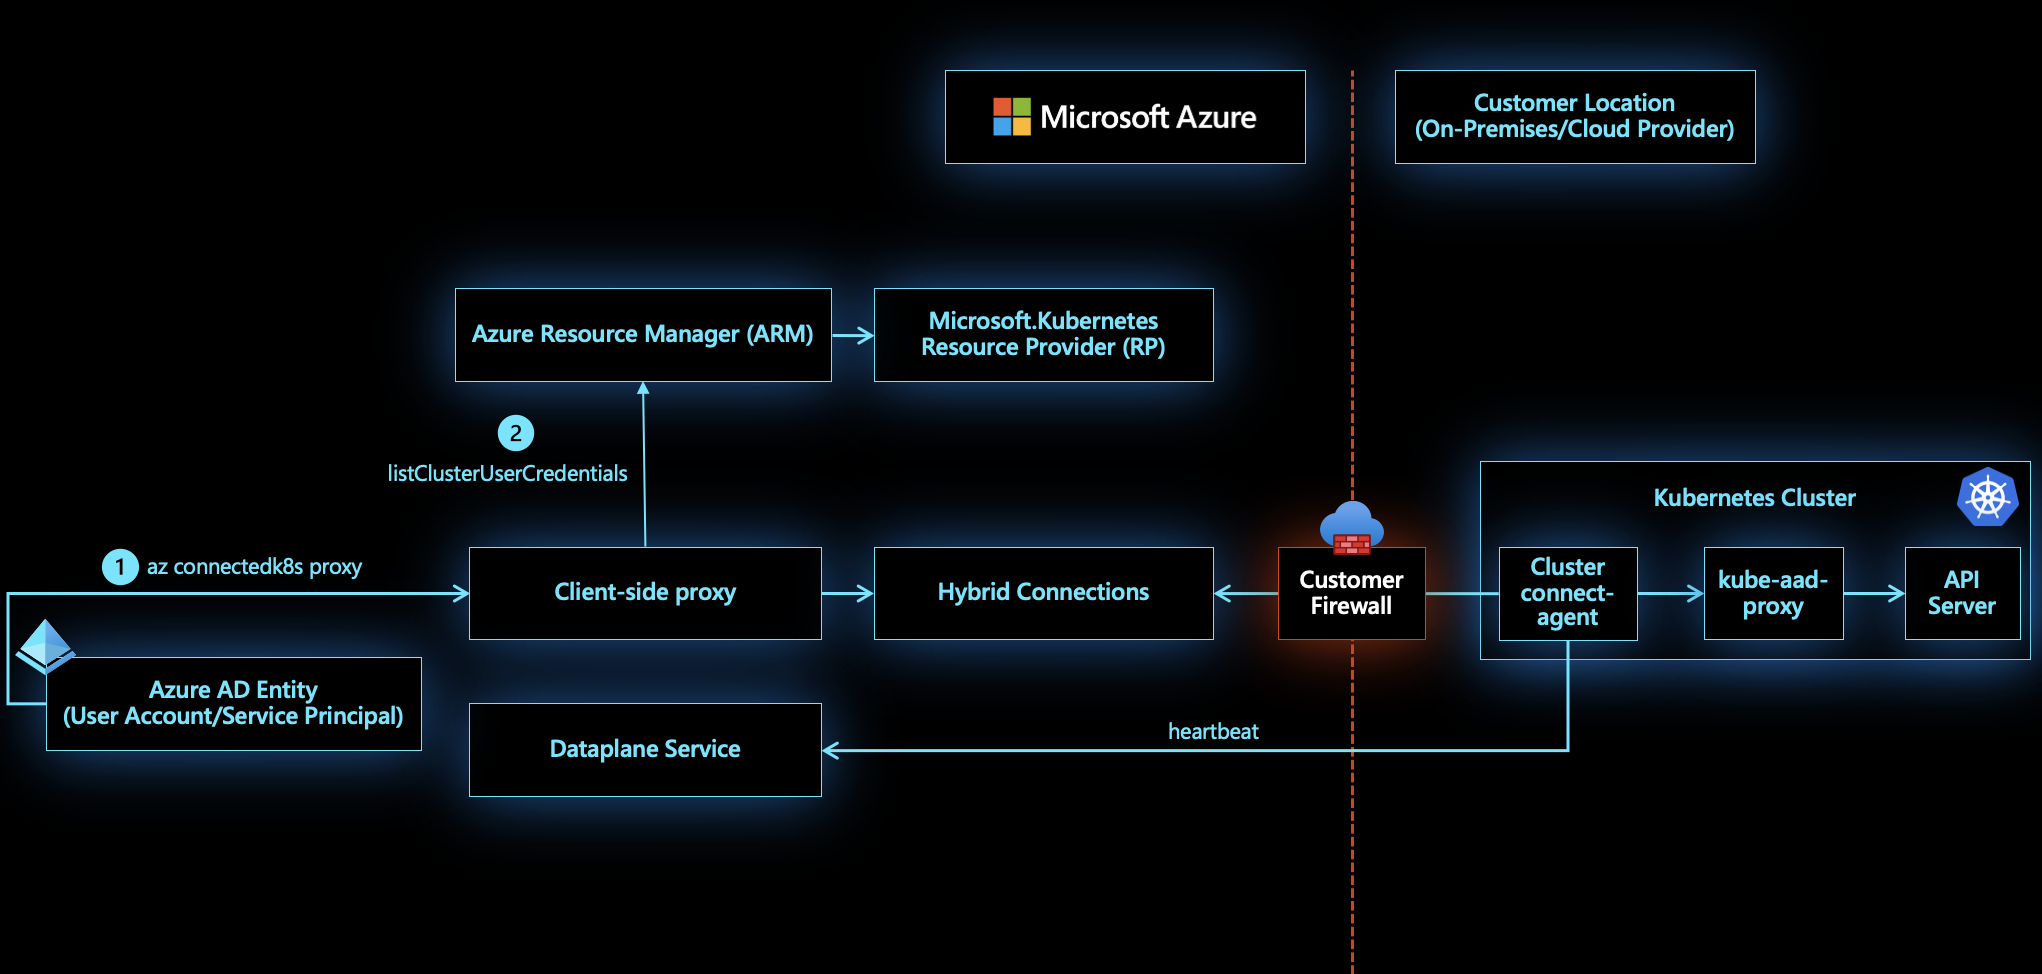
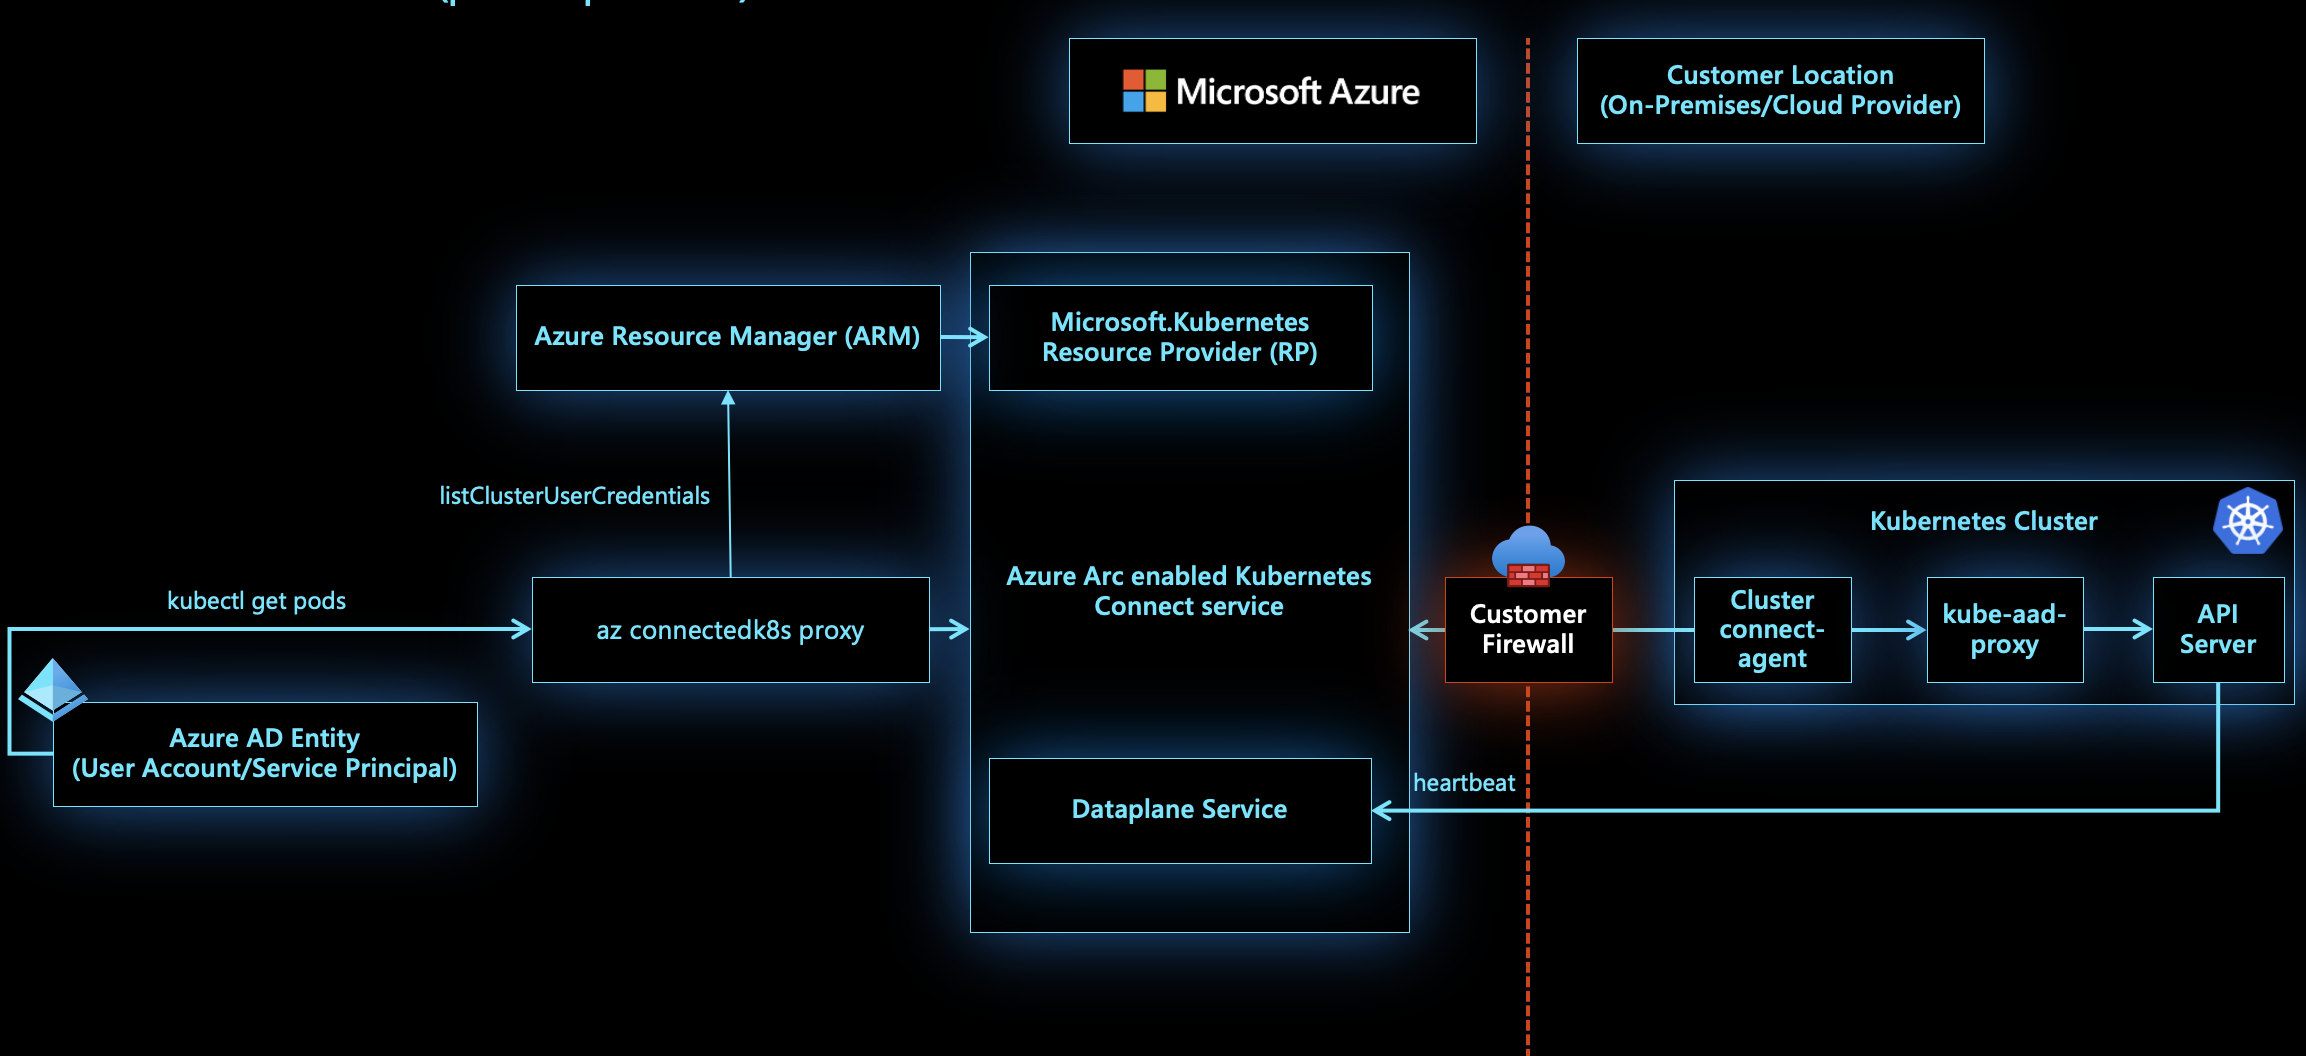
address comments on arc platform docs

Changed region(s): [[0.0, 0.0, 1.0, 0.924], [0.6787, 0.0, 0.8639, 0.2156]]

diff --git a/articles/azure-arc/kubernetes/conceptual-cluster-connect.md b/articles/azure-arc/kubernetes/conceptual-cluster-connect.md
@@ -11,9 +11,9 @@ description: "This article provides a conceptual overview of Cluster Connect cap
 
 # Cluster connect on Azure Arc enabled Kubernetes
 
-The Azure Arc enabled Kubernetes *cluster connect* feature provides connectivity to the `apiserver` of the cluster without requiring any inbound port to be enabled on the firewall. A Hybrid Connections resource on the Azure service side is mapped to every Arc enabled Kubernetes cluster. A reverse proxy agent running on the cluster can securely start a session with the Hybrid Connection resource in an outbound manner. 
+The Azure Arc enabled Kubernetes *cluster connect* feature provides connectivity to the `apiserver` of the cluster without requiring any inbound port to be enabled on the firewall. A reverse proxy agent running on the cluster can securely start a session with the Azure Arc service in an outbound manner. 
 
-Cluster connect allows developers to access their clusters from anywhere for interactive development and debugging. You can even use hosted agents/runners of Azure Pipelines, GitHub Actions, or any other hosted CI/CD service to deploy applications to on-prem clusters, without requiring self-hosted agents.
+Cluster connect allows developers to access their clusters from anywhere for interactive development and debugging. It also lets cluster users and administrators access or manage their clusters from anywhere. You can even use hosted agents/runners of Azure Pipelines, GitHub Actions, or any other hosted CI/CD service to deploy applications to on-prem clusters, without requiring self-hosted agents.
 
 [!INCLUDE [preview features note](./includes/preview/preview-callout.md)]
 
@@ -21,17 +21,17 @@ Cluster connect allows developers to access their clusters from anywhere for int
 
 [ ![Cluster connect architecture](./media/conceptual-cluster-connect.png) ](./media/conceptual-cluster-connect.png#lightbox)
 
-For every Azure Arc enabled Kubernetes resource, a Hybrid Connections resource is provisioned in Microsoft tenant by Azure Arc services. On the cluster side, a reverse proxy agent called `clusterconnect-agent` makes outbound calls to the Hybrid Connections resource to establish the session.
+On the cluster side, a reverse proxy agent called `clusterconnect-agent` deployed as part of agent helm chart, makes outbound calls to Azure Arc service to establish the session.
 
 When the user calls `az connectedk8s proxy`:
-1. A client-side proxy binary is downloaded and spun up as a process on the client machine. 
-1. The client-side proxy fetches a `kubeconfig` file associated with the Azure Arc enabled Kubernetes cluster on which the `az connectedk8s proxy` is invoked.
-  * The client side proxy uses the caller's Azure access token and the Azure Resource Manager ID name. 
-1. The `kubeconfig` file, saved on the machine by client-side proxy, points the server URL to an endpoint on the client-side proxy process.
+1. Azure Arc proxy binary is downloaded and spun up as a process on the client machine. 
+1. Azure Arc proxy fetches a `kubeconfig` file associated with the Azure Arc enabled Kubernetes cluster on which the `az connectedk8s proxy` is invoked.
+  * Azure Arc proxy uses the caller's Azure access token and the Azure Resource Manager ID name. 
+1. The `kubeconfig` file, saved on the machine by Azure Arc proxy, points the server URL to an endpoint on the Azure Arc proxy process.
 
 When a user sends a request using this `kubeconfig` file:
-1. The client-side proxy maps the endpoint receiving the request to the appropriate Hybrid Connections resource. 
-1. The Hybrid Connections resource forwards the request to the `clusterconnect-agent` running on the cluster. 
+1. Azure Arc proxy maps the endpoint receiving the request to the Azure Arc service. 
+1. Azure Arc service then forwards the request to the `clusterconnect-agent` running on the cluster. 
 1. The `clusterconnect-agent` passes on the request to the `kube-aad-proxy` component, which performs AAD authentication on the calling entity. 
 1. After AAD authentication, `kube-aad-proxy` uses Kubernetes [user impersonation](https://kubernetes.io/docs/reference/access-authn-authz/authentication/#user-impersonation) feature to forward the request to the cluster's `apiserver`.
 

diff --git a/articles/azure-arc/kubernetes/azure-rbac.md b/articles/azure-arc/kubernetes/azure-rbac.md
@@ -11,13 +11,14 @@ description: "Use Azure RBAC for authorization checks on Azure Arc enabled Kuber
 
 # Azure RBAC for Azure Arc enabled Kubernetes clusters
 
-Kubernetes [ClusterRoleBinding and RoleBinding](https://kubernetes.io/docs/reference/access-authn-authz/rbac/#rolebinding-and-clusterrolebinding) objects type help to define authorization in Kubernetes natively. With Azure RBAC, you can use Azure Active Directory (AAD) and role assignments in Azure to control authorization checks on the cluster.
+Kubernetes [ClusterRoleBinding and RoleBinding](https://kubernetes.io/docs/reference/access-authn-authz/rbac/#rolebinding-and-clusterrolebinding) objects type help to define authorization in Kubernetes natively. With Azure RBAC, you can use Azure Active Directory (AAD) and role assignments in Azure to control authorization checks on the cluster. This implies you can now use Azure role assignments to granularly control who can read, write, delete your Kubernetes objects such as Deployment, Pod and Service
+
+A conceptual overview of this feature is available in [Azure RBAC - Azure Arc enabled Kubernetes article](conceptual-azure-rbac.md).
 
 [!INCLUDE [preview features note](./includes/preview/preview-callout.md)]
 
 ## Prerequisites
 
-- An understanding of the benefits and architecture of this feature. Read more in [Azure RBAC - Azure Arc enabled Kubernetes article](conceptual-azure-rbac.md).
 - [Install or upgrade Azure CLI](https://docs.microsoft.com/cli/azure/install-azure-cli) to version >= 2.16.0
 - Install the `connectedk8s` Azure CLI extension of version >= 1.1.0:
 
@@ -35,10 +36,8 @@ Kubernetes [ClusterRoleBinding and RoleBinding](https://kubernetes.io/docs/refer
     - If you haven't connected a cluster yet, use our [quickstart](quickstart-connect-cluster.md).
     - [Upgrade your agents](agent-upgrade.md#manually-upgrade-agents) to version >= 1.1.0.
 
-- Self-managed Kubernetes cluster where access to `apiserver` of the cluster is available.
-
 > [!NOTE]
-> This feature can't be set up for managed Kubernetes offerings of cloud providers like Elastic Kubernetes Service or Google Kubernetes Engine. For Azure Kubernetes Service (AKS) clusters, this [feature is available natively](../../aks/manage-azure-rbac.md) and doesn't require the AKS cluster to be connected to Azure Arc.
+> This feature can't be set up for managed Kubernetes offerings of cloud providers like Elastic Kubernetes Service or Google Kubernetes Engine where the user doesn't have access to `apiserver` of the cluster. For Azure Kubernetes Service (AKS) clusters, this [feature is available natively](../../aks/manage-azure-rbac.md) and doesn't require the AKS cluster to be connected to Azure Arc.
 
 ## Set up AAD applications
 

diff --git a/articles/azure-arc/kubernetes/conceptual-agent-architecture.md b/articles/azure-arc/kubernetes/conceptual-agent-architecture.md
@@ -44,7 +44,10 @@ Most on-prem datacenters enforce strict network rules that prevent inbound commu
         | `deployment.apps/cluster-metadata-operator` | Gathers cluster metadata, including cluster version, node count, and Azure Arc agent version. |
         | `deployment.apps/resource-sync-agent` | Syncs the above-mentioned cluster metadata to Azure. |
         | `deployment.apps/flux-logs-agent` | Collects logs from the flux operators deployed as a part of source control configuration. |
-    
+        | `deployment.apps/extension-manager` | Installs and manages lifecycle of extension helm charts |  
+        | `deployment.apps/clusterconnect-agent` | Reverse proxy agent that enables cluster connect feature to provide access to `apiserver` of cluster. This is an optional component deployed only if `cluster-connect` feature is enabled on the cluster   |
+        | `deployment.apps/guard` | Authentication and authorization webhook server used for AAD RBAC feature. This is an optional component deployed only if `azure-rbac` feature is enabled on the cluster   |
+
 1. Once all the Azure Arc enabled Kubernetes agent pods are in `Running` state, verify that your cluster connected to Azure Arc. You should see:
     * An Azure Arc enabled Kubernetes resource in [Azure Resource Manager](../../azure-resource-manager/management/overview.md). Azure tracks this resource as a projection of the customer-managed Kubernetes cluster, not the actual Kubernetes cluster itself.
     * Cluster metadata (like Kubernetes version, agent version, and number of nodes) appears on the Azure Arc enabled Kubernetes resource as metadata.

diff --git a/articles/azure-arc/kubernetes/extensions.md b/articles/azure-arc/kubernetes/extensions.md
@@ -16,11 +16,12 @@ The Kubernetes extensions feature enables the following on Azure Arc enabled Kub
 * Azure Resource Manager-based deployment of cluster extension.
 * Lifecycle management of extension Helm charts.
 
+A conceptual overview of this feature is available in [Cluster extensions - Azure Arc enabled Kubernetes article](conceptual-extensions.md).
+
 [!INCLUDE [preview features note](./includes/preview/preview-callout.md)]
 
 ## Prerequisites
 
-- An understanding of the benefits and architecture of this feature. Read more in [Cluster extensions - Azure Arc enabled Kubernetes article](conceptual-extensions.md).
 - An Azure account with an active subscription. [Create an account for free](https://azure.microsoft.com/free/?WT.mc_id=A261C142F).
 - [Install or upgrade Azure CLI](https://docs.microsoft.com/cli/azure/install-azure-cli) to version >= 2.16.0
 - An existing Azure Arc enabled Kubernetes connected cluster.

diff --git a/articles/azure-arc/kubernetes/custom-locations.md b/articles/azure-arc/kubernetes/custom-locations.md
@@ -15,11 +15,12 @@ As an Azure location extension, *Custom Locations* provides a way for tenant adm
 
 Similar to Azure locations, end users within the tenant with access to Custom Locations can deploy resources there using their company's private compute.
 
+A conceptual overview of this feature is available in [Custom locations - Azure Arc enabled Kubernetes article](conceptual-custom-locations.md).
+
 [!INCLUDE [preview features note](./includes/preview/preview-callout.md)]
 
 ## Prerequisites
 
-- An understanding of the benefits and architecture of this feature. Read more in [Custom locations - Azure Arc enabled Kubernetes article](conceptual-custom-locations.md).
 - An Azure account with an active subscription. [Create an account for free](https://azure.microsoft.com/free/?WT.mc_id=A261C142F).
 
 - [Install or upgrade Azure CLI](https://docs.microsoft.com/cli/azure/install-azure-cli) to version >= 2.16.0

diff --git a/articles/azure-arc/kubernetes/cluster-connect.md b/articles/azure-arc/kubernetes/cluster-connect.md
@@ -15,11 +15,12 @@ With Cluster Connect, you can securely connect to Azure Arc enabled Kubernetes c
 * Enable interactive debugging and troubleshooting.
 * Provide access to external services.
 
+A conceptual overview of this feature is available in [Cluster connect - Azure Arc enabled Kubernetes article](conceptual-cluster-connect.md).
+
 [!INCLUDE [preview features note](./includes/preview/preview-callout.md)]
 
 ## Prerequisites
 
-- An understanding of the benefits and architecture of this feature. Read more in [Cluster connect - Azure Arc enabled Kubernetes article](conceptual-cluster-connect.md).
 - An Azure account with an active subscription. [Create an account for free](https://azure.microsoft.com/free/?WT.mc_id=A261C142F).
 
 - [Install or upgrade Azure CLI](https://docs.microsoft.com/cli/azure/install-azure-cli) to version >= 2.16.0

diff --git a/articles/azure-arc/kubernetes/conceptual-custom-locations.md b/articles/azure-arc/kubernetes/conceptual-custom-locations.md
@@ -23,8 +23,6 @@ You can visualize Custom Locations as an abstraction layer on top of Azure Arc e
 
 ## Architecture
 
-[ ![Enable custom locations](./media/conceptual-custom-locations-enable.png) ](./media/conceptual-custom-locations-enable.png#lightbox)
-
 When the admin enables the Custom Locations feature on the cluster, a ClusterRoleBinding is created on the cluster, authorizing the AAD application used by the Custom Locations Resource Provider (RP). Once authorized, Custom Locations RP can create ClusterRoleBindings or RoleBindings needed by other Azure RPs to create custom resources on this cluster. The cluster extensions installed on the cluster determines the list of RPs to authorize.
 
 [ ![Use custom locations](./media/conceptual-custom-locations-usage.png) ](./media/conceptual-custom-locations-usage.png#lightbox)
